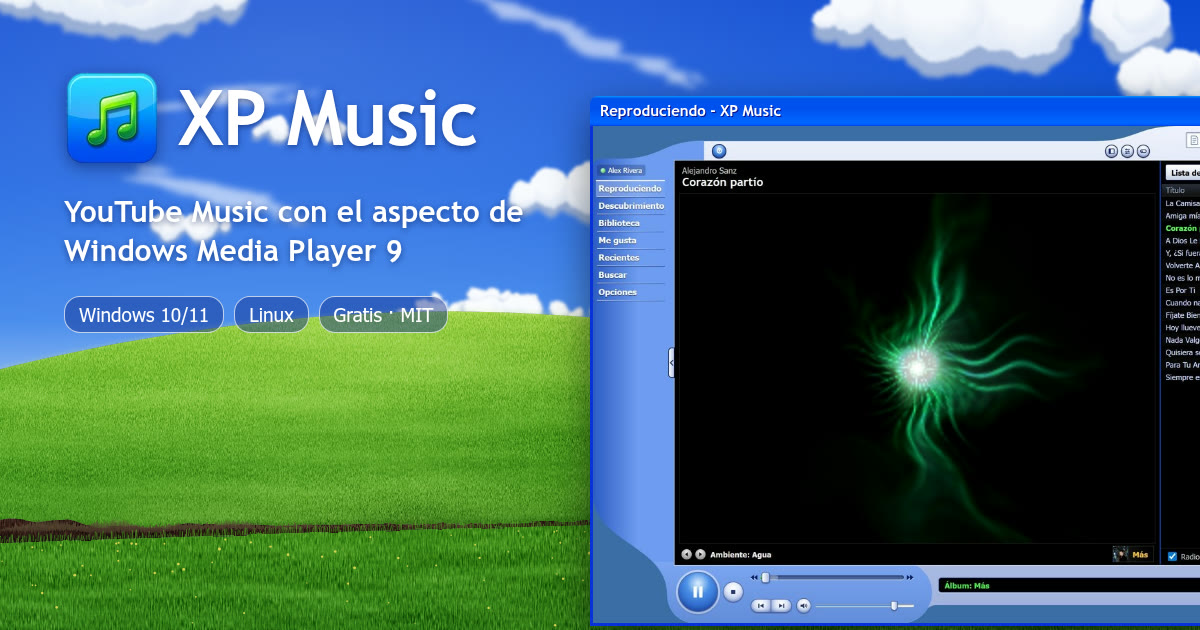
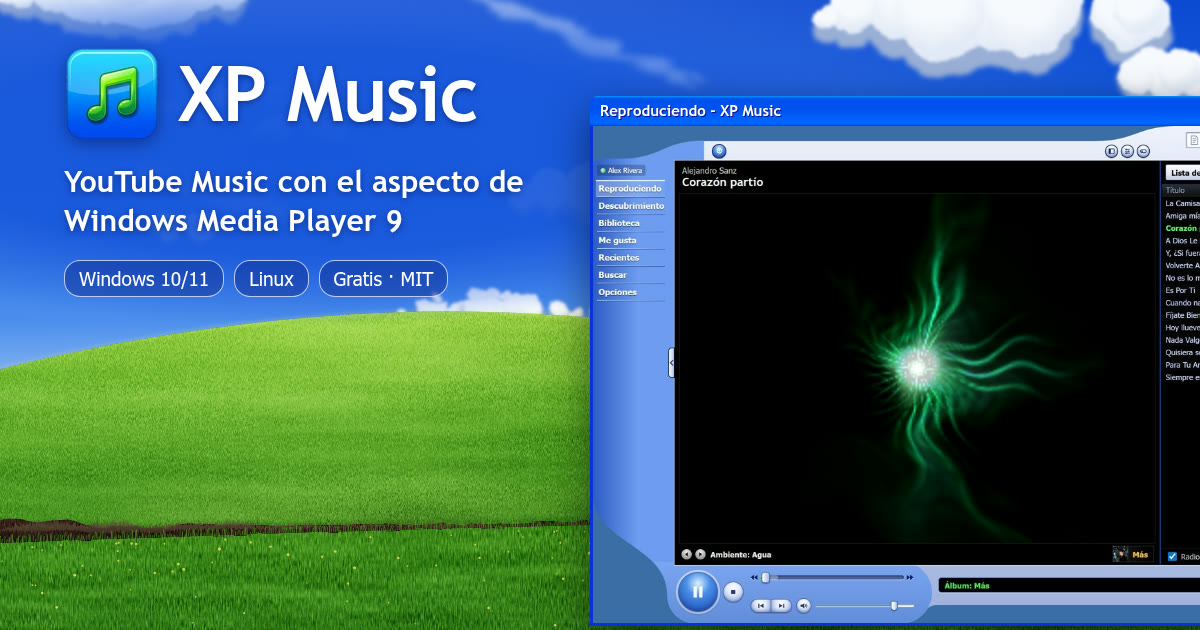
fix(site): que las nubes no se crucen con el texto de la imagen para redes

Changed region(s): [[0.0, 0.0, 0.4933, 0.5429], [0.4008, 0.0, 0.5858, 0.1508]]

diff --git a/site/og.html b/site/og.html
@@ -17,13 +17,16 @@
       }
       body {
         position: relative;
-        background: url("src/desktop.svg") center 38% / cover;
+        /* Velo de cielo detrás del texto: las nubes no deben cruzarse con las letras. */
+        background:
+          radial-gradient(ellipse 600px 175px at 300px 150px, #1857dc 0%, rgb(24 87 220 / 0.9) 60%, rgb(24 87 220 / 0) 100%),
+          url("src/desktop.svg") center 38% / cover;
         font-family: Tahoma, sans-serif;
       }
       .text {
         position: absolute;
         left: 64px;
-        top: 70px;
+        top: 46px;
         width: 470px;
         color: #fff;
         text-shadow: 0 2px 6px rgb(0 20 80 / 0.55);
@@ -44,13 +47,13 @@
         letter-spacing: -1px;
       }
       p {
-        margin: 26px 0 0;
+        margin: 20px 0 0;
         font: bold 30px/1.3 "Trebuchet MS", sans-serif;
       }
       .tags {
         display: flex;
         gap: 10px;
-        margin-top: 26px;
+        margin-top: 20px;
       }
       .tags span {
         padding: 6px 14px;
